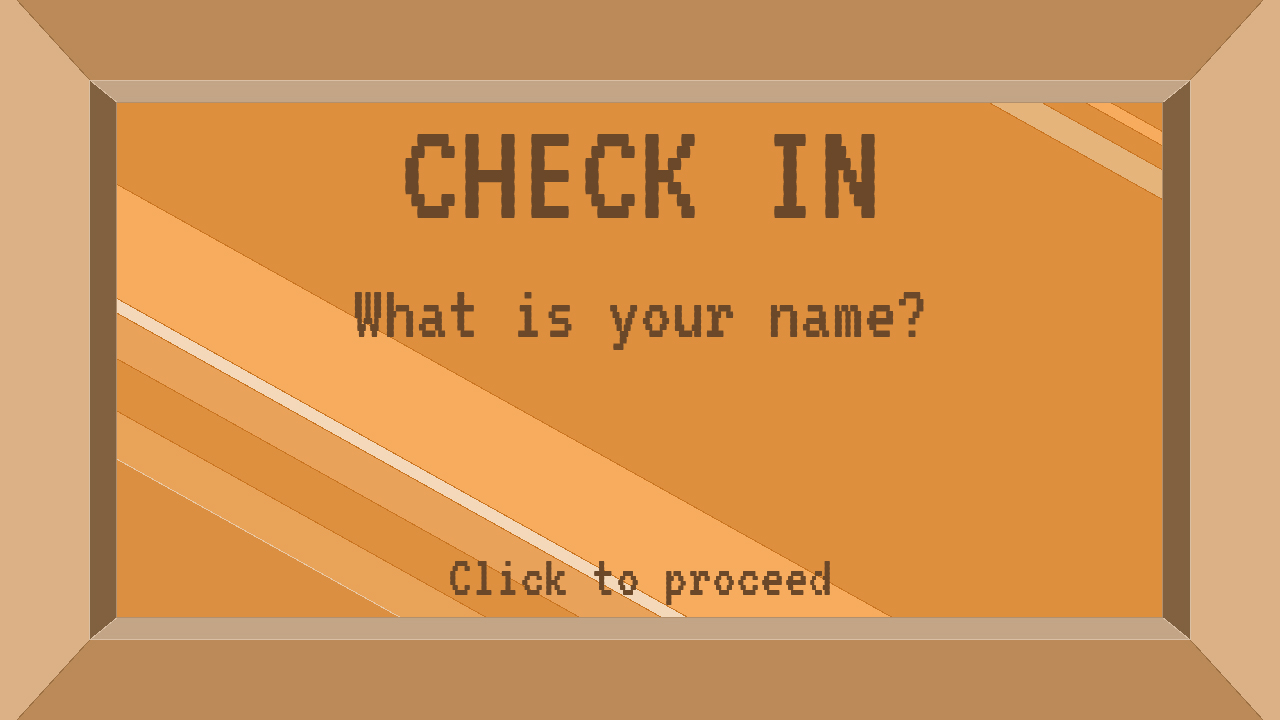
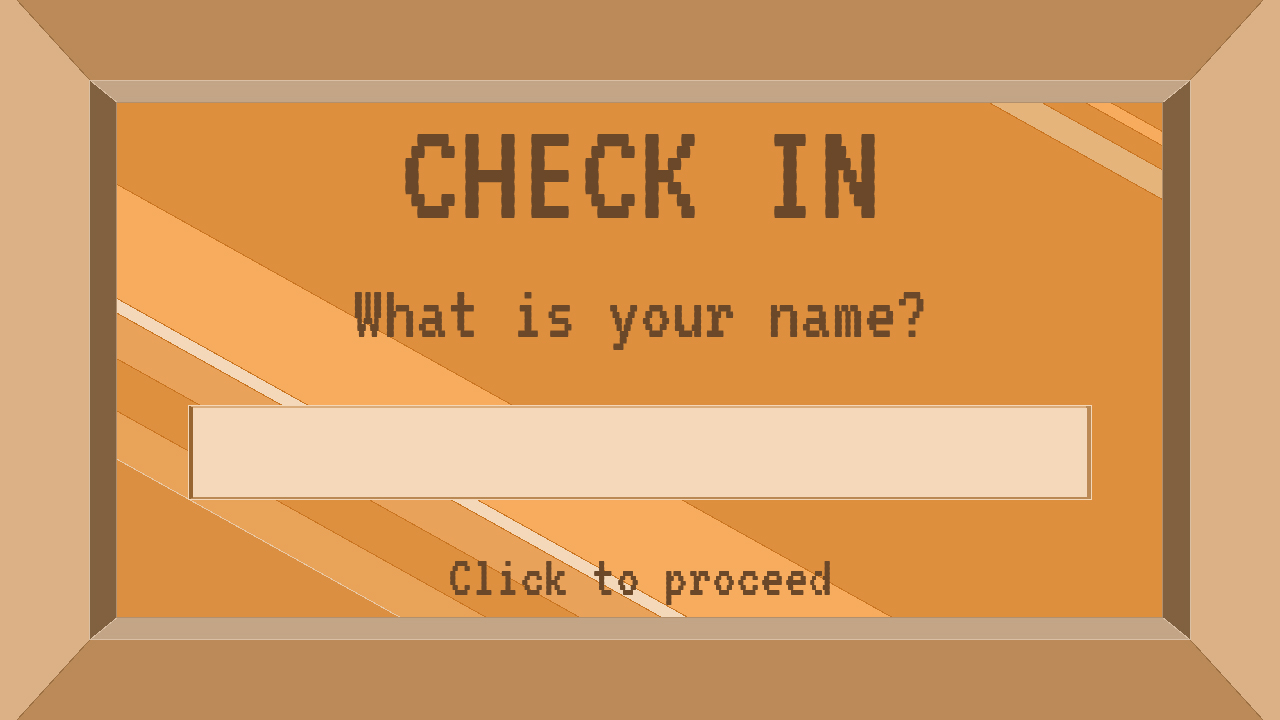
Restricted length of input in both info screens.

Changed region(s): [[0.125, 0.55, 0.875, 0.7028]]

diff --git a/src/scenes/getLocation.js b/src/scenes/getLocation.js
@@ -24,22 +24,22 @@ class getLocation extends Phaser.Scene {
         this.mouseClick = this.sound.add('mouseClick');
         this.inputBG_2 = this.add.image(0, 0, 'input_2').setOrigin(0,0);
     
-        playerInputLocation = this.add.text(game.config.width/4, game.config.height/1.75, '', answerConfig);
+        playerInputLocation = this.add.text(200, 389, '', answerConfig);
     
         this.input.keyboard.on('keydown', function (event) { //keyboard input code credits from: https://phaser.io/examples/v3/view/input/keyboard/text-entry
 
             //A document that explains each unique keycode: https://github.com/photonstorm/phaser/blob/v3.51.0/src/input/keyboard/keys/KeyCodes.js 
             
-            if (event.keyCode === 8 && playerInputLocation.text.length > 0) {   //this is the backspace key; to delete the typed text from playerInput.text string
+            if (event.keyCode === 8 && playerInput.text.length > 0) { //this is the backspace key; to delete the typed text from playerInput.text string
                 typingSound.play();
-                playerInputLocation.text = playerInputLocation.text.substr(0, playerInputLocation.text.length - 1); //delete input
-            }
-            else if (event.keyCode === 32 || (event.keyCode >= 48 && event.keyCode <= 90)) {   // this is to add space and all upper and lower captial letters to the input string
+                playerInput.text = playerInput.text.substr(0, playerInput.text.length - 1);
+            } else if (playerInput.text.length >= 20) { //if it's too long, it won't insert more input
+                console.log('too long');
+            } else if (event.keyCode === 32 || (event.keyCode >= 48 && event.keyCode <= 90)) { // this is to add space and all upper and lower captial letters to the playerInput.text string
                 typingSound.play();
-                playerInputLocation.text += event.key; 
-                info.arrivingLocation = playerInputLocation.text;
-                console.log(info.name + ' is going to ' + info.arrivingLocation); //debug
-
+                playerInput.text += event.key; 
+                info.name = playerInput.text;
+                console.log('player name is ' + info.name); //debug
             }
 
         });

diff --git a/src/scenes/getName.js b/src/scenes/getName.js
@@ -22,7 +22,7 @@ class getName extends Phaser.Scene {
 
         //this.add.text(10, 10, 'Enter your name: \nClick to Proceed', {fontFamily: 'Comic Sans MS', fontSize: '28px'});
     
-        playerInput = this.add.text(game.config.width/4, game.config.height/2, '', answerConfig);
+        playerInput = this.add.text(195, 385, '', answerConfig);
     
         this.input.keyboard.on('keydown', function (event) { //keyboard input code credits from: https://phaser.io/examples/v3/view/input/keyboard/text-entry
             
@@ -31,8 +31,9 @@ class getName extends Phaser.Scene {
             if (event.keyCode === 8 && playerInput.text.length > 0) { //this is the backspace key; to delete the typed text from playerInput.text string
                 typingSound.play();
                 playerInput.text = playerInput.text.substr(0, playerInput.text.length - 1);
-            }
-            else if (event.keyCode === 32 || (event.keyCode >= 48 && event.keyCode <= 90)) { // this is to add space and all upper and lower captial letters to the playerInput.text string
+            } else if (playerInput.text.length >= 20) { //if it's too long, it won't insert more input
+                console.log('too long');
+            } else if (event.keyCode === 32 || (event.keyCode >= 48 && event.keyCode <= 90)) { // this is to add space and all upper and lower captial letters to the playerInput.text string
                 typingSound.play();
                 playerInput.text += event.key; 
                 info.name = playerInput.text;

diff --git a/src/scenes/game.js b/src/scenes/game.js
@@ -110,7 +110,7 @@ class Game extends Phaser.Scene{
         this.physics.add.overlap(this.player, this.suitcaseGroup, function(player, suitcase)
         {
             // camera shake when player touches suitcase
-            this.cameras.main.shake(100, 0.02);
+            this.cameras.main.shake(150, 0.001);
             this.player.anims.stop();
             this.physics.world.removeCollider(this.grav);
             if(!this.gameOver){
@@ -195,6 +195,7 @@ class Game extends Phaser.Scene{
 
         //game over screen
         if (this.gameOver) {
+            //the game over ticket and info visibility
             this.gameOverTicket.visible = true;
             this.nameDisplay1.visible = true;
             this.nameDisplay2.visible = true;

diff --git a/src/main.js b/src/main.js
@@ -58,7 +58,7 @@ let info = {
 let answerConfig = {
     fill: '#4F3421',
     fontFamily: 'pixelFont',
-    fontSize: '120px',
+    fontSize: '110px',
     align: 'left',
     padding: {
         top: 5,
